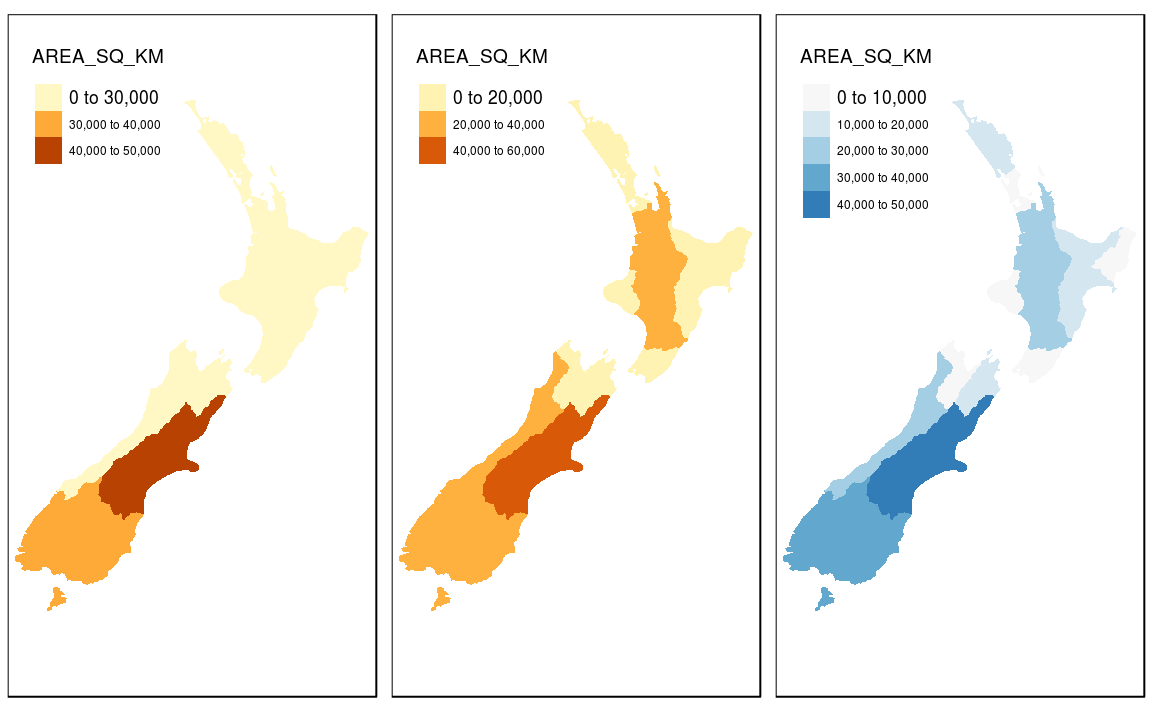
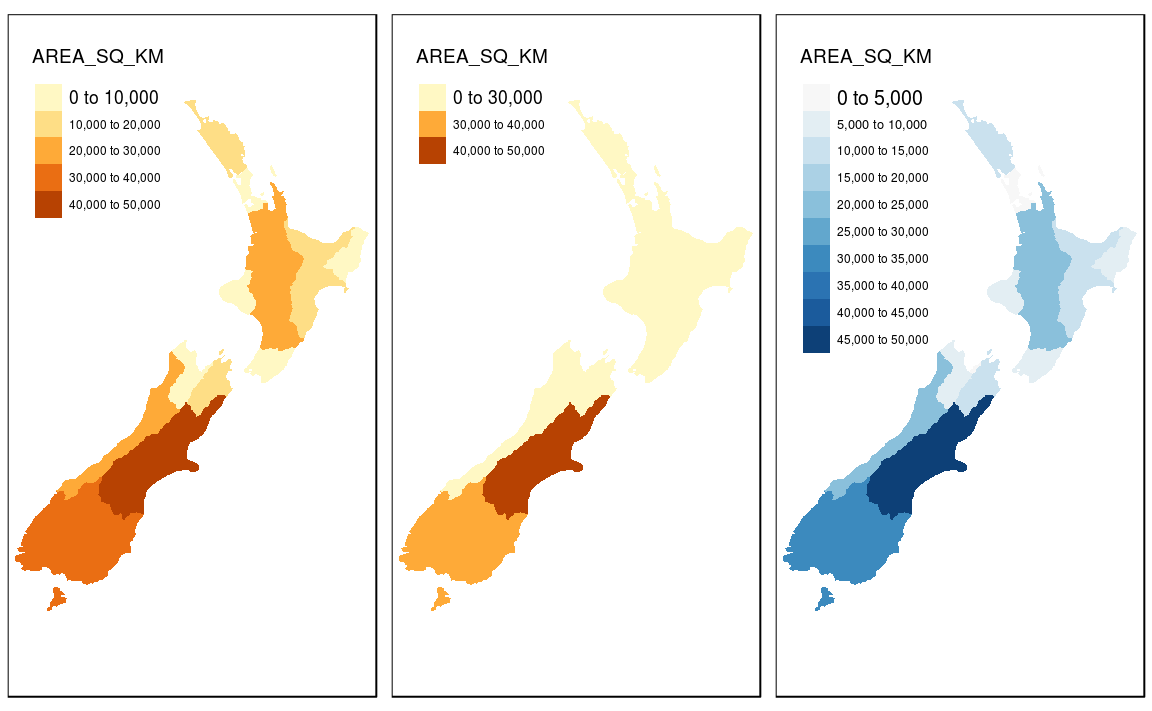
Updating book (2779)
Former-commit-id: 44b86b7ac7f8adf44db823a17668b5685dc69581
Former-commit-id: 09f9ddc18a293a6c6916304bc76c69a72b96320c

diff --git a/adv-map.html b/adv-map.html
@@ -457,11 +457,12 @@ Figure 9.3: The impact of changing commonly used fill and border aesthetics to f
 Figure 9.4: Comparison of base (left) and tmap (right) handling of a numeric color field.
 </p>
 </div>
-<p>Additional aesthetic settings are demonstrated in the code chunk below, which colors regions in New Zealand depending on their area which demonstrates this functionality. The plot also illustrates how the number and palette of colors can be altered by passing integer and text values to the arguments <code>n</code> and <code>palette</code> respectively:</p>
+<p>Additional aesthetic settings are demonstrated in the code chunk below, which colors regions in New Zealand depending on their area. The results show how custom breaks can be set with the <code>breaks</code> argument (Figure <a href="adv-map.html#fig:tmpal">9.5</a> center). Additional palette options include <code>n</code> (which sets the number of bins into which numeric variables are categorised) and <code>palette</code> (which defines the colorscheme — which can be selected interactively with <code>tmaptools::palette_explorer()</code>). Results of changing values for these simultaneously are shown in Figure <a href="adv-map.html#fig:tmpal">9.5</a> (right):</p>
 <div class="sourceCode"><pre class="sourceCode r"><code class="sourceCode r">breaks =<span class="st"> </span><span class="kw">c</span>(<span class="dv">0</span>, <span class="dv">3</span>, <span class="dv">4</span>, <span class="dv">5</span>) *<span class="st"> </span><span class="fl">1e4</span>
+<span class="kw">tm_shape</span>(nz) +<span class="st"> </span><span class="kw">tm_fill</span>(<span class="dt">col =</span> <span class="st">&quot;AREA_SQ_KM&quot;</span>)
 <span class="kw">tm_shape</span>(nz) +<span class="st"> </span><span class="kw">tm_fill</span>(<span class="dt">col =</span> <span class="st">&quot;AREA_SQ_KM&quot;</span>, <span class="dt">breaks =</span> breaks)
-<span class="kw">tm_shape</span>(nz) +<span class="st"> </span><span class="kw">tm_fill</span>(<span class="dt">col =</span> <span class="st">&quot;AREA_SQ_KM&quot;</span>, <span class="dt">n =</span> <span class="dv">2</span>)
-<span class="kw">tm_shape</span>(nz) +<span class="st"> </span><span class="kw">tm_fill</span>(<span class="dt">col =</span> <span class="st">&quot;AREA_SQ_KM&quot;</span>, <span class="dt">palette =</span> <span class="st">&quot;RdBu&quot;</span>)</code></pre></div>
+<span class="kw">tm_shape</span>(nz) +<span class="st"> </span><span class="kw">tm_fill</span>(<span class="dt">col =</span> <span class="st">&quot;AREA_SQ_KM&quot;</span>,
+                       <span class="dt">n =</span> <span class="dv">10</span>, <span class="dt">palette =</span> <span class="st">&quot;RdBu&quot;</span>)</code></pre></div>
 <div class="figure" style="text-align: center"><span id="fig:tmpal"></span>
 <img src="figures/tmpal-1.png" alt="Illustration of aesthetic settings using the example of a continuous variable (the area in square kilometers of regions in New Zealand) converted to color with different break palette arguments." width="576" />
 <p class="caption">
